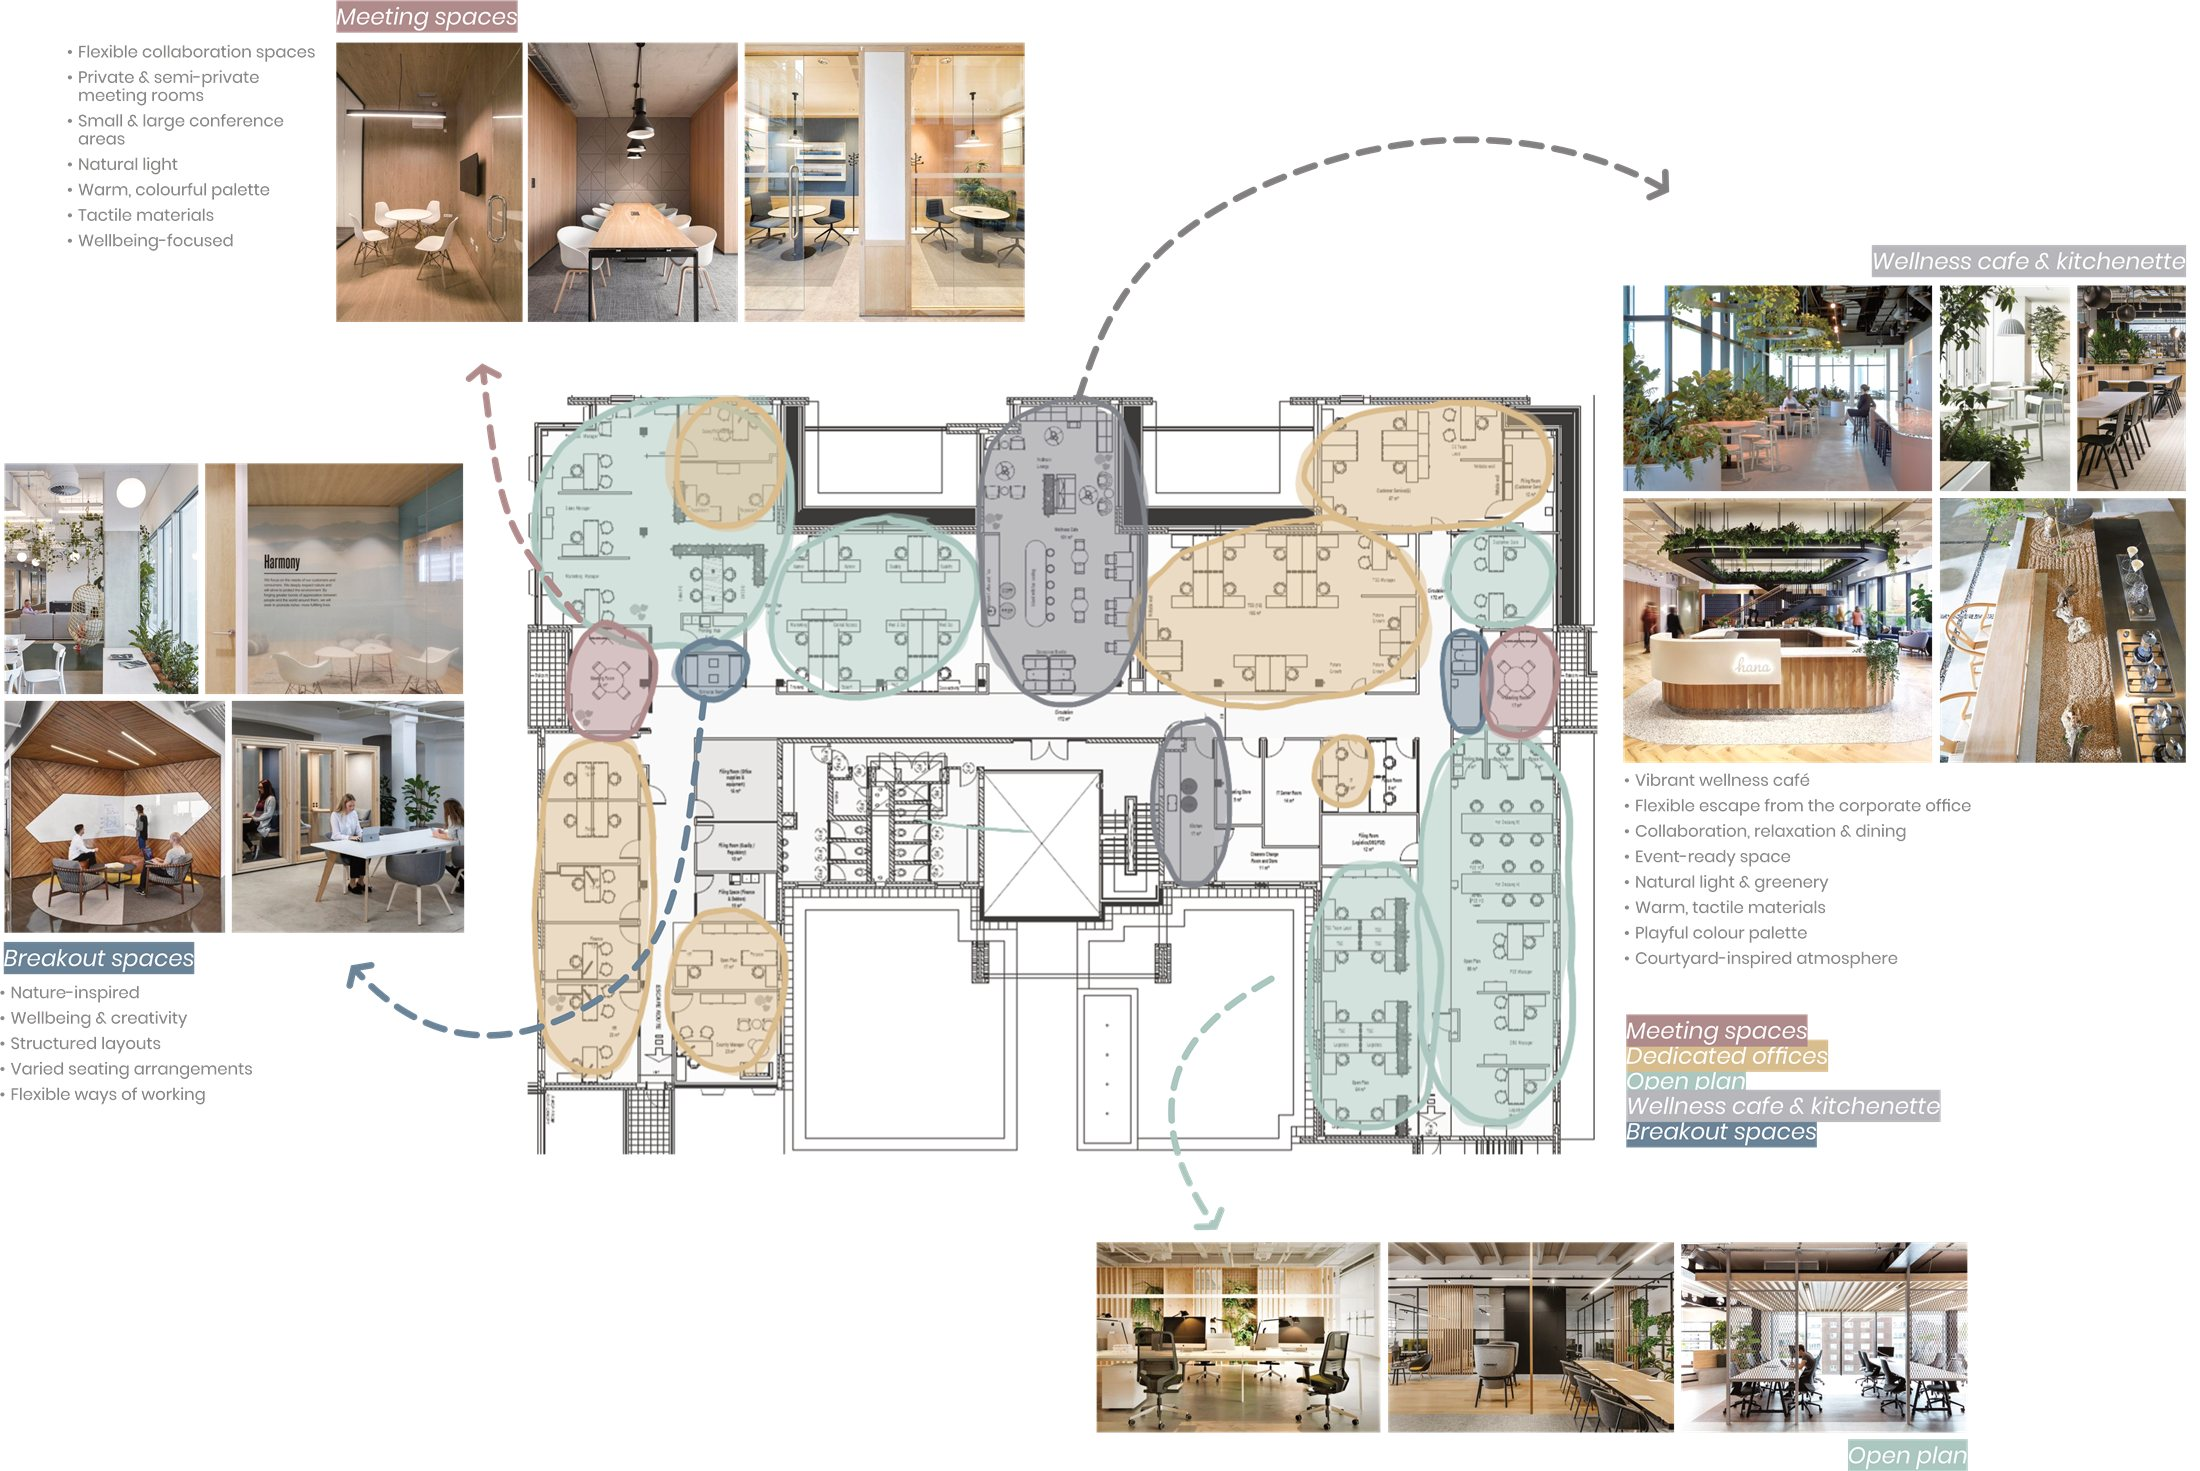
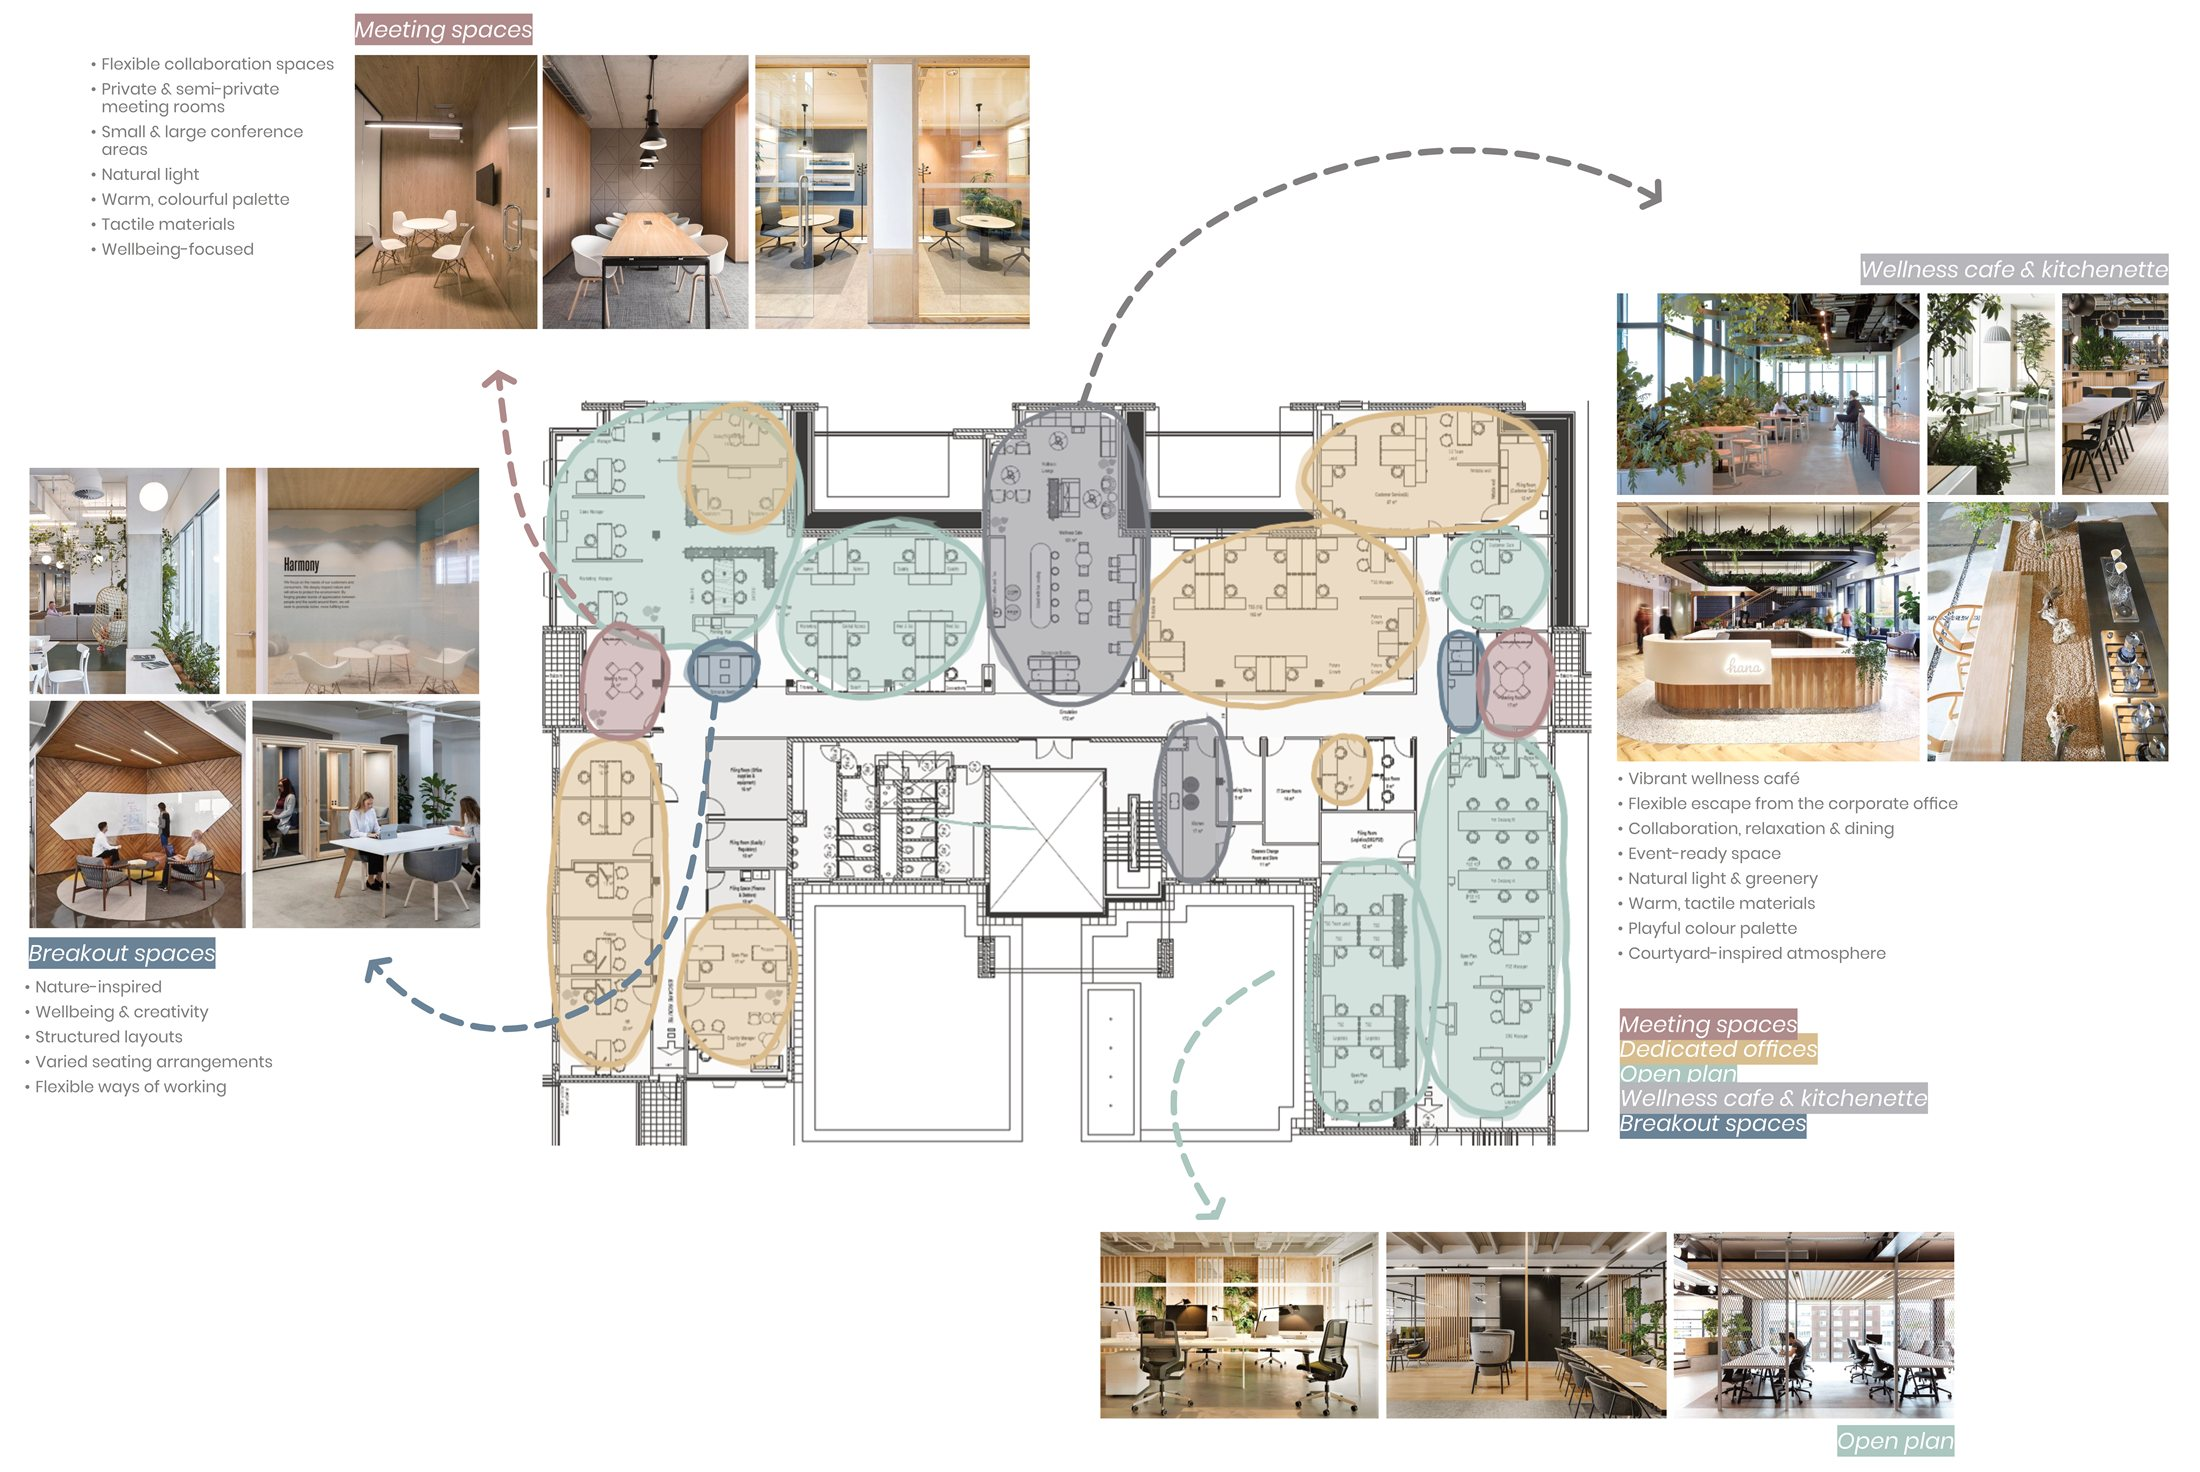
Add Look & Feel zoning legend images and update floor plan visuals
Claude-Session: https://claude.ai/code/session_015Z31jsgrtnisH6d3JUgSCM

diff --git a/src/components/ProjectModal.jsx b/src/components/ProjectModal.jsx
@@ -371,6 +371,20 @@ export default function ProjectModal({ project, onClose }) {
                 <span className="inline-block w-2 h-2 rounded-full bg-gold shrink-0" />
                 Layouts
               </p>
+              <div className="flex items-start gap-2 mb-8">
+                <div className="w-1/2">
+                  <p className="text-xs italic mb-1" style={{ color: '#fdbf69' }}>Ground Floor</p>
+                  <Img src="/projects/cepheid-culross/zoning-legend.jpg" alt="Zoning close-up showing cafe, meeting spaces, outdoor spaces, training space, and reception & foyer" className="w-full h-auto rounded-sm" />
+                </div>
+                <div className="w-1/2">
+                  <p className="text-xs italic mb-1" style={{ color: '#fdbf69' }}>First Floor</p>
+                  <Img src="/projects/cepheid-culross/zoning-legend-first-floor.jpg" alt="Zoning close-up showing meeting spaces, dedicated offices, open plan, wellness cafe & kitchenette, and breakout spaces" className="w-full h-auto rounded-sm" />
+                </div>
+              </div>
+              <p className="text-xs tracking-widest uppercase text-stone/40 mb-4 flex items-center gap-2">
+                <span className="inline-block w-2 h-2 rounded-full bg-gold shrink-0" />
+                Look & Feel
+              </p>
               <p className="text-xs italic mb-4 ml-4" style={{ color: '#fdbf69' }}>Ground Floor</p>
               <Img src="/projects/cepheid-culross/ground-floor.jpg" alt="Ground floor layout with programme zones: cafe, meeting spaces, training space, and reception & foyer" className="w-full h-auto rounded-sm mb-8" />
               <p className="text-xs italic mb-4 ml-4" style={{ color: '#fdbf69' }}>First Floor</p>
